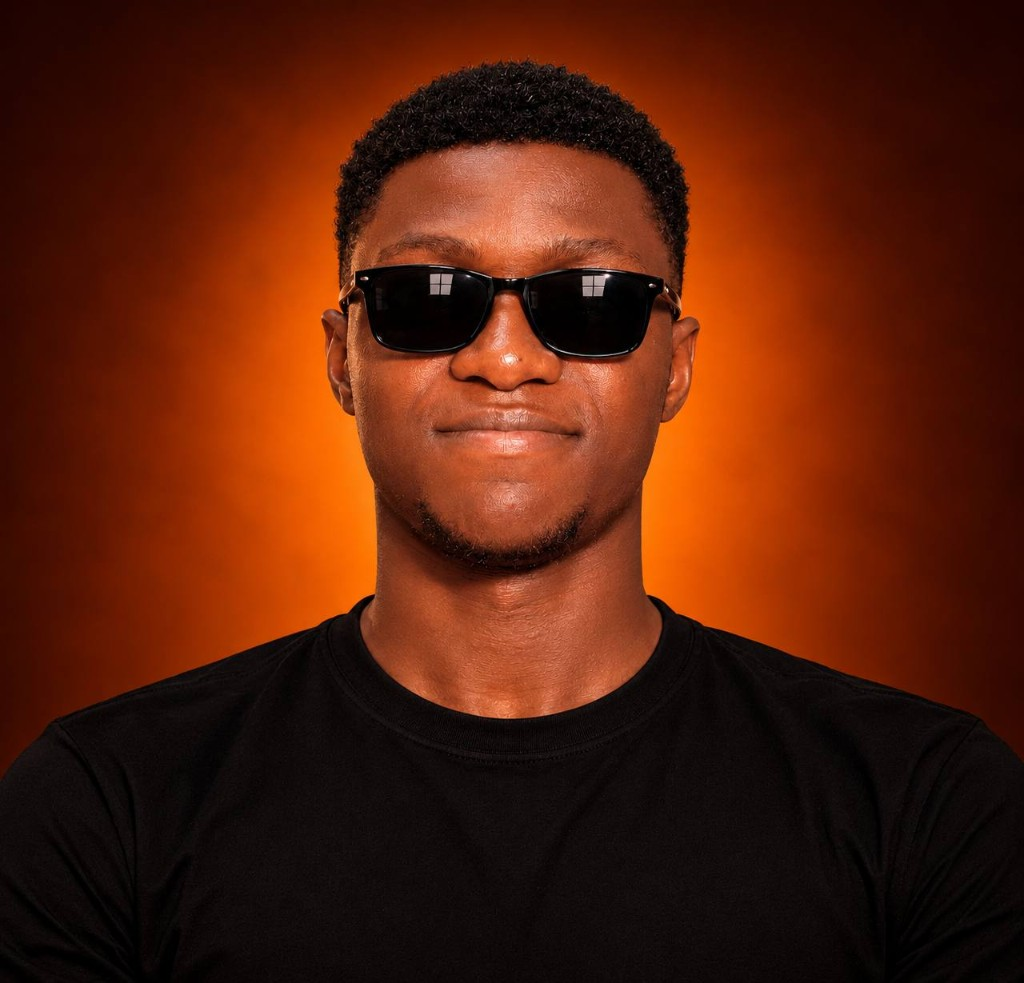
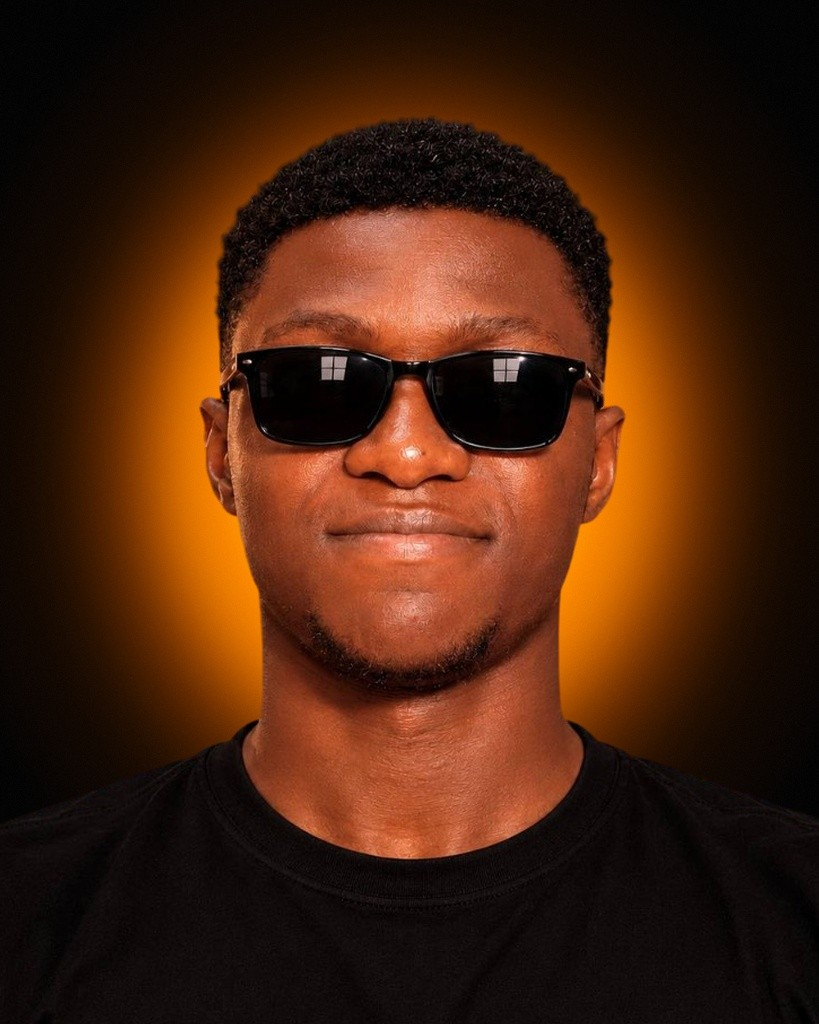
Update team member images and enhance TeamPage layout for improved responsiveness. Changed image formats from PNG to JPG for 'SoloSufi' and 'Sohan', and adjusted sizes for better display on various screen widths.

diff --git a/frontend/app/team/page.tsx b/frontend/app/team/page.tsx
@@ -178,13 +178,13 @@ export default function TeamPage() {
               Ghost Labs — the people behind prepaid gas on Solana.
             </p>
           </div>
-          <div className="relative mx-auto mt-8 aspect-[1672/941] w-full max-w-[720px] overflow-hidden bg-night md:mt-10">
+          <div className="relative mx-auto mt-8 aspect-[1672/941] w-full max-w-[1100px] overflow-hidden bg-night md:mt-10">
             <Image
               src="/team/hero.jpg"
               alt="Ghost Labs team at BNB Hack Bengaluru — hackathon winners"
               fill
               priority
-              sizes="(max-width: 768px) 100vw, 720px"
+              sizes="(max-width: 1100px) 100vw, 1100px"
               className="object-cover object-center"
             />
           </div>
@@ -220,13 +220,13 @@ export default function TeamPage() {
               Experienced operators advising Ghost Labs.
             </p>
           </div>
-          <ul className="mx-auto grid max-w-[960px] grid-cols-1 gap-y-10 md:grid-cols-2 md:gap-x-6 md:gap-y-12">
+          <ul className="grid grid-cols-1 gap-y-10 md:grid-cols-2 md:gap-x-8 md:gap-y-12">
             {ADVISORS.map((advisor) => (
               <PersonCard
                 key={advisor.id}
                 person={advisor}
                 aspectClass="aspect-[16/9]"
-                sizes="(max-width: 768px) 100vw, 480px"
+                sizes="(max-width: 768px) 100vw, 50vw"
               />
             ))}
           </ul>

diff --git a/frontend/lib/team.ts b/frontend/lib/team.ts
@@ -105,7 +105,7 @@ export const TEAM: TeamMember[] = [
     firstName: "SoloSufi",
     lastName: "AbMajid",
     role: "Chief Community Officer",
-    image: "/team/solosufi.png",
+    image: "/team/solosufi.jpg",
     imageAlt: "SoloSufi (AbMajid), chief community officer at Ghost Labs",
     x: "https://x.com/HassanA98493054",
     xHandle: "@HassanA98493054",
@@ -115,7 +115,7 @@ export const TEAM: TeamMember[] = [
     firstName: "Sohan",
     lastName: "Parvas",
     role: "KOLs Manager",
-    image: "/team/sohan.png",
+    image: "/team/sohan.jpg",
     imageAlt: "Sohan Parvas, KOLs manager at Ghost Labs",
     x: "https://x.com/MdSohan13605277",
     xHandle: "@MdSohan13605277",
